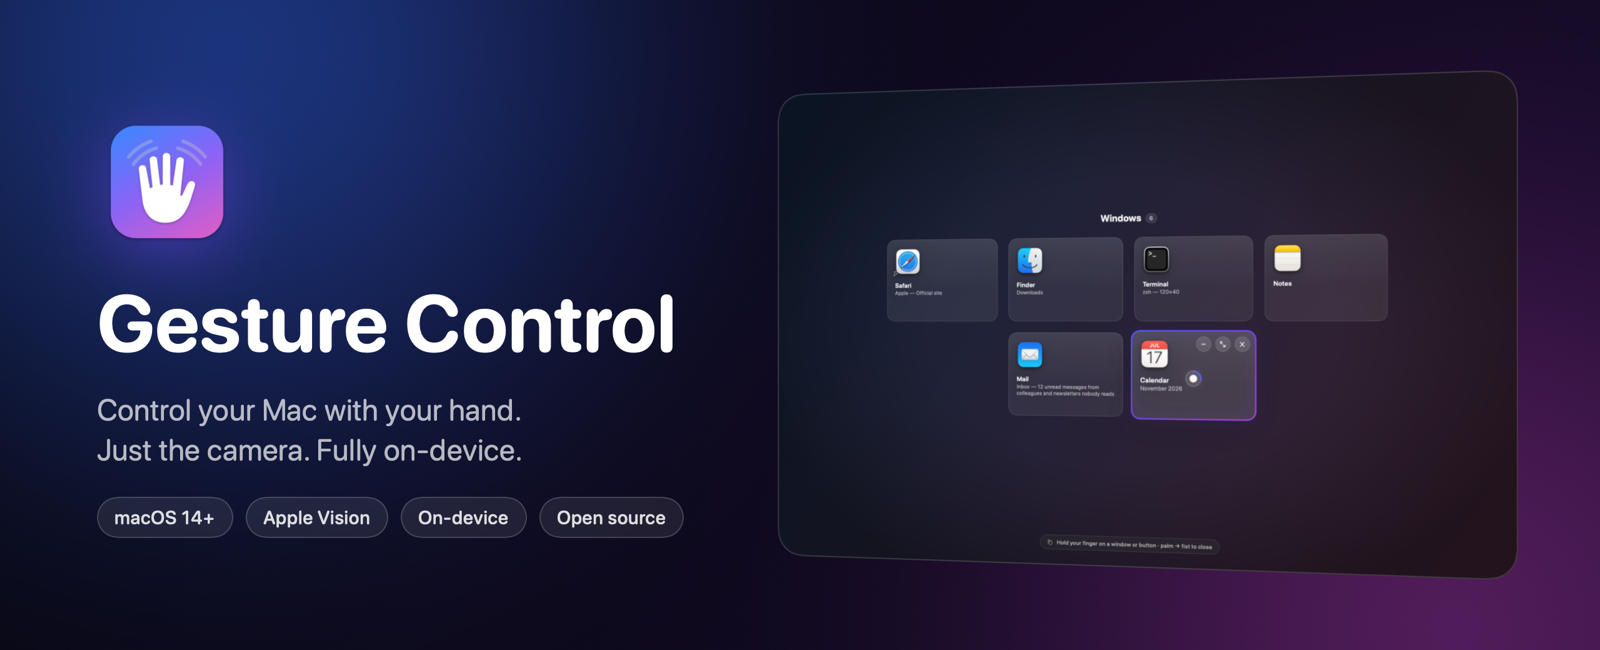
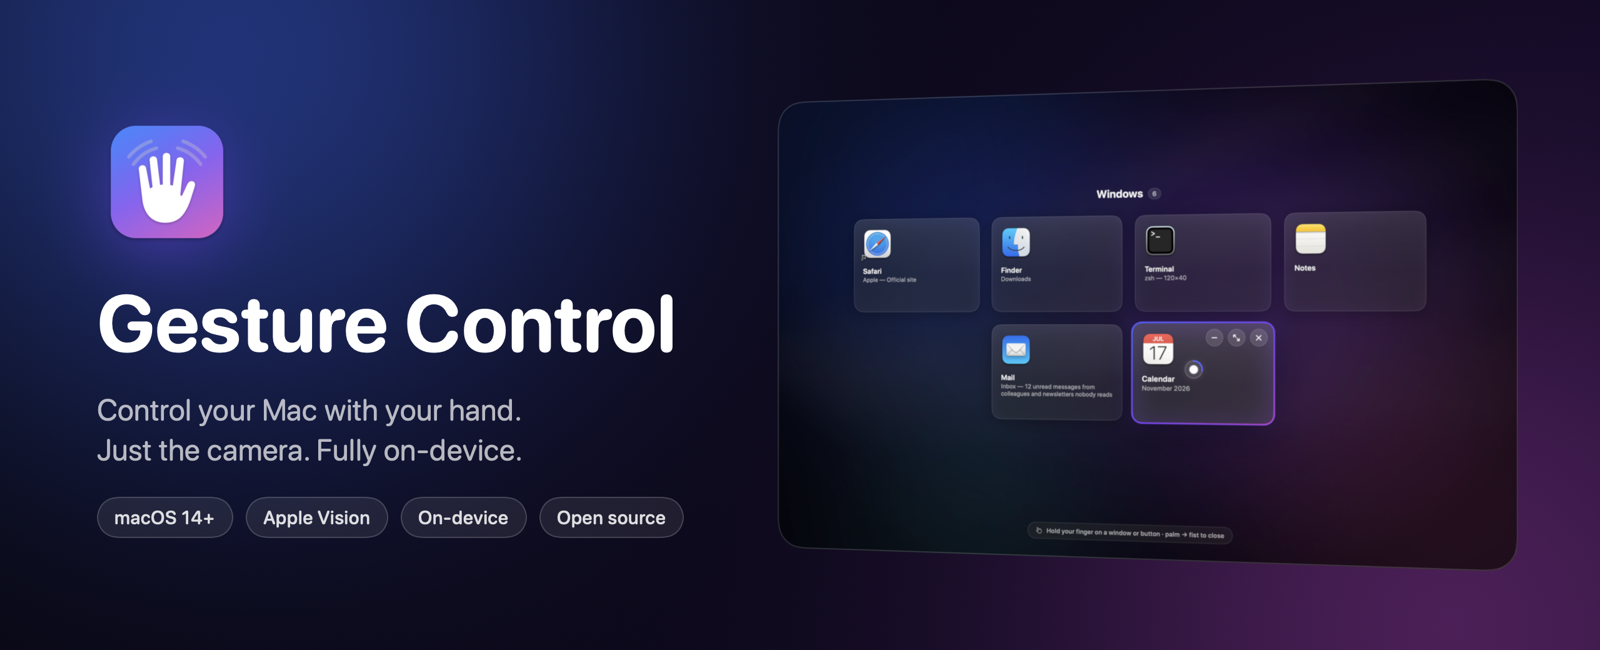
0.3.2: real screenshots in the README; picker overlay covers the menu bar and Dock
- README images are now real screenshots of the running UI (glass over a wallpaper),
  captured by scripts/shots in all three languages; no camera, no user windows
- Fix: the window picker panel ended up at .floating level (isFloatingPanel reset it);
  it now sits above the menu bar and Dock as intended
- Badge screenshot added to the READMEs

Changed region(s): [[0.5312, 0.2769, 0.9062, 0.6769], [0.625, 0.8, 0.9688, 0.8923], [0.5625, 0.1231, 0.6875, 0.1538]]

diff --git a/scripts/shots/main.swift b/scripts/shots/main.swift
@@ -1,0 +1,157 @@
+// Real screenshots of the live UI for the README, taken over a neutral wallpaper window so that
+// nothing from the user's desktop gets into the frame. The camera is never opened.
+//   shots <out dir>   → <out>/<lang>/{hud,hud-collapsed,guide,toast}.png and <out>/<lang>/frames/f###.jpg
+import AppKit
+import SwiftUI
+
+let out = URL(fileURLWithPath: CommandLine.arguments[1])
+let app = NSApplication.shared
+app.setActivationPolicy(.accessory)
+
+/// macOS-like abstract wallpaper.
+struct Wallpaper: View {
+    var body: some View {
+        ZStack {
+            LinearGradient(colors: [Color(red: 0.05, green: 0.06, blue: 0.16), Color(red: 0.13, green: 0.05, blue: 0.22)],
+                           startPoint: .topLeading, endPoint: .bottomTrailing)
+            Circle().fill(Color(red: 0.16, green: 0.38, blue: 1.0)).frame(width: 900).blur(radius: 180).offset(x: -520, y: -300).opacity(0.75)
+            Circle().fill(Color(red: 0.55, green: 0.25, blue: 0.95)).frame(width: 800).blur(radius: 170).offset(x: 260, y: -60).opacity(0.65)
+            Circle().fill(Color(red: 0.92, green: 0.30, blue: 0.62)).frame(width: 760).blur(radius: 170).offset(x: 600, y: 380).opacity(0.6)
+            Circle().fill(Color(red: 0.10, green: 0.75, blue: 0.85)).frame(width: 520).blur(radius: 150).offset(x: -380, y: 420).opacity(0.45)
+            // soft light ribbons
+            ForEach(0..<4) { i in
+                Capsule().fill(Color.white.opacity(0.06))
+                    .frame(width: 1600, height: 90 + CGFloat(i) * 30)
+                    .blur(radius: 30)
+                    .rotationEffect(.degrees(-24 + Double(i) * 7))
+                    .offset(x: CGFloat(i) * 80 - 120, y: CGFloat(i) * 120 - 220)
+            }
+        }
+        .ignoresSafeArea()
+    }
+}
+
+func capture(_ rect: CGRect, _ path: String, jpg: Bool = false) {
+    // rect in Cocoa global coordinates (bottom-left origin) → screencapture's top-left points
+    let top = (NSScreen.screens.first?.frame.maxY ?? 0) - rect.maxY
+    let r = "\(Int(rect.minX)),\(Int(top)),\(Int(rect.width)),\(Int(rect.height))"
+    let p = Process()
+    p.executableURL = URL(fileURLWithPath: "/usr/sbin/screencapture")
+    p.arguments = ["-x", "-o"] + (jpg ? ["-t", "jpg"] : []) + ["-R", r, path]
+    try? p.run()
+    p.waitUntilExit()
+}
+
+/// Runs steps one after another with a delay before each.
+final class Script {
+    private var steps: [(Double, () -> Void)] = []
+    func then(_ delay: Double, _ f: @escaping () -> Void) { steps.append((delay, f)) }
+    func run(done: @escaping () -> Void) {
+        guard !steps.isEmpty else { done(); return }
+        let (d, f) = steps.removeFirst()
+        DispatchQueue.main.asyncAfter(deadline: .now() + d) { f(); self.run(done: done) }
+    }
+}
+
+MainActor.assumeIsolated {
+    setenv("WINDOW_PICKER_FAKE", "6", 1)
+    guard let screen = NSScreen.main else { exit(1) }
+
+    let backdrop = NSWindow(contentRect: screen.frame, styleMask: [.borderless], backing: .buffered, defer: false)
+    backdrop.level = NSWindow.Level(rawValue: 22)         // above normal windows and the Dock, below the menu bar
+    func raisePanels() {                                   // our panels must sit above the backdrop
+        for w in NSApp.windows where w !== backdrop && w.level.rawValue < 23 { w.level = NSWindow.Level(rawValue: 23) }
+    }
+    backdrop.collectionBehavior = [.canJoinAllSpaces, .fullScreenAuxiliary, .stationary]
+    backdrop.contentView = NSHostingView(rootView: Wallpaper())
+    backdrop.setFrame(screen.frame, display: true)
+    backdrop.orderFrontRegardless()
+
+    let hud = HUD(session: nil)
+    let guide = GestureGuide()
+    let toast = Toast()
+    let picker = WindowPicker()
+    let hand = SelfTest.hand(at: CGPoint(x: 0.5, y: 0.47), fingers: SelfTest.open, s: 0.2, t: 0)
+
+    // picker animation path (normalized screen coords) and ring progress
+    var path: [(CGPoint, CGFloat)] = []
+    func move(_ a: CGPoint, _ b: CGPoint, _ n: Int) {
+        for i in 0..<n {
+            let t = CGFloat(i) / CGFloat(n - 1), e = t * t * (3 - 2 * t)
+            path.append((CGPoint(x: a.x + (b.x - a.x) * e, y: a.y + (b.y - a.y) * e), 0))
+        }
+    }
+    func hold(_ p: CGPoint, wait: Int, fill: Int, after: Int) {
+        for _ in 0..<wait { path.append((p, 0)) }
+        for i in 1...fill { path.append((p, CGFloat(i) / CGFloat(fill))) }
+        for _ in 0..<after { path.append((p, 1)) }
+    }
+    let start = CGPoint(x: 0.12, y: 0.80), safari = CGPoint(x: 0.24, y: 0.42), terminal = CGPoint(x: 0.587, y: 0.42)
+    let notes = CGPoint(x: 0.76, y: 0.43), calendar = CGPoint(x: 0.587, y: 0.61), mailClose = CGPoint(x: 0.473, y: 0.545)
+    move(start, safari, 14); move(safari, terminal, 14); move(terminal, notes, 8); move(notes, calendar, 12)
+    hold(calendar, wait: 6, fill: 18, after: 6)
+    move(calendar, mailClose, 14)
+    hold(mailClose, wait: 6, fill: 22, after: 8)
+
+    let s = Script()
+    for lang in Lang.allCases {
+        let dir = out.appendingPathComponent(lang.rawValue)
+        let frames = dir.appendingPathComponent("frames")
+        let label = { tr("point & hold", "наведите и задержите", "指向并停留") }
+        s.then(0.3) {
+            try? FileManager.default.createDirectory(at: frames, withIntermediateDirectories: true)
+            L10n.shared.lang = lang
+            hud.setCollapsed(false)
+            hud.show()
+            hud.update(hand: hand, mode: .picker, label: label())
+            raisePanels()
+            hud.demoCenter(on: screen)
+        }
+        s.then(0.6) { hud.demoCenter(on: screen) }
+        s.then(0.4) {
+            hud.update(hand: hand, mode: .picker, label: label())
+            if let f = hud.demoFrame { capture(f.insetBy(dx: -56, dy: -56), dir.appendingPathComponent("hud.png").path) }
+            hud.setCollapsed(true)
+        }
+        s.then(0.5) { hud.demoCenter(on: screen) }
+        s.then(0.3) {
+            hud.update(hand: hand, mode: .picker, label: label())
+            if let f = hud.demoFrame { capture(f.insetBy(dx: -40, dy: -40), dir.appendingPathComponent("hud-collapsed.png").path) }
+            hud.hide()
+            guide.show()
+            raisePanels()
+        }
+        s.then(1.0) {
+            if let f = guide.demoFrame { capture(f.insetBy(dx: -60, dy: -60), dir.appendingPathComponent("guide.png").path) }
+            guide.close()
+            toast.show(enabled: true)
+        }
+        s.then(0.55) {
+            if let f = toast.demoFrame {
+                var r = f.insetBy(dx: -70, dy: -34)
+                r.size.height = min(r.maxY, screen.visibleFrame.maxY) - r.minY   // stay below the menu bar / notch
+                capture(r, dir.appendingPathComponent("toast.png").path)
+            }
+            toast.demoHide()
+        }
+        s.then(2.0) { picker.demoOpen(count: 6) }   // after the badge has faded out
+        for (i, (p, ring)) in path.enumerated() {
+            s.then(i == 0 ? 0.6 : 0.05) {
+                picker.demoSet(pointer: p, ring: ring)
+            }
+            s.then(0.06) {
+                // full screen without the menu bar (it shows the user's apps and clock)
+                let r = CGRect(x: screen.frame.minX, y: screen.frame.minY, width: screen.frame.width,
+                               height: screen.visibleFrame.maxY - screen.frame.minY)
+                capture(r, frames.appendingPathComponent(String(format: "f%03d.jpg", i)).path, jpg: true)
+            }
+        }
+        s.then(0.1) { picker.close() }
+    }
+    s.run {
+        backdrop.orderOut(nil)
+        print("done")
+        exit(0)
+    }
+}
+app.run()

diff --git a/scripts/assets/main.swift b/scripts/assets/main.swift
@@ -1,15 +1,12 @@
 // Renders README images from the app's own drawing code (no camera, no real windows).
-//   render-assets <docs dir> <frames dir> <icon 512 png>
-//   For each language (en, ru, zh): docs/banner[-ru|-zh].png, hud…, hud-collapsed…, guide….png,
-//   and frames in <frames dir>/<lang>/ for demo[-ru|-zh].gif (assembled by scripts/render-assets.sh)
+//   render-assets <docs dir> <shots dir> <icon 512 png>
+//   Banner per language (docs/banner[-ru|-zh].png) built around a real screenshot from scripts/shots.
 import AppKit
 import SwiftUI
 
-setenv("WINDOW_PICKER_FAKE", "6", 1)   // demo windows instead of the user's real ones
 let root = URL(fileURLWithPath: CommandLine.arguments[1])
 let frames = URL(fileURLWithPath: CommandLine.arguments[2])
 let iconPath = CommandLine.arguments[3]
-try? FileManager.default.createDirectory(at: frames, withIntermediateDirectories: true)
 
 func snapshot<V: View>(_ view: V, to url: URL) {
     let host = NSHostingView(rootView: view)
@@ -75,56 +72,18 @@ struct Banner: View {
 }
 
 MainActor.assumeIsolated {
+  // banner per language, using a real screenshot frame from scripts/shots
   for lang in Lang.allCases {
     L10n.shared.lang = lang
     let sfx = lang == .en ? "" : "-\(lang.rawValue)"
-    let langFrames = frames.appendingPathComponent(lang.rawValue)
-    try? FileManager.default.createDirectory(at: langFrames, withIntermediateDirectories: true)
-
-    // camera HUD, expanded and collapsed
-    let hud = HUD(session: nil)
-    let hand = SelfTest.hand(at: CGPoint(x: 0.5, y: 0.47), fingers: SelfTest.open, s: 0.2, t: 0)
-    let label = tr("point & hold", "наведите и задержите", "指向并停留")
-    hud.renderDebugPNG(to: root.appendingPathComponent("hud\(sfx).png"), hand: hand, mode: .picker, label: label)
-    hud.renderDebugPNG(to: root.appendingPathComponent("hud-collapsed\(sfx).png"), hand: hand, mode: .picker, label: label,
-                       collapsed: true)
-
-    // gesture guide
-    GestureGuide.renderPNG(to: root.appendingPathComponent("guide\(sfx).png"))
-
-    // demo animation of the window picker
-    let picker = WindowPicker()
-    var path: [(CGPoint, CGFloat)] = []
-    func move(_ a: CGPoint, _ b: CGPoint, _ n: Int) {
-        for i in 0..<n {
-            let t = CGFloat(i) / CGFloat(n - 1), e = t * t * (3 - 2 * t)
-            path.append((CGPoint(x: a.x + (b.x - a.x) * e, y: a.y + (b.y - a.y) * e), 0))
-        }
-    }
-    func hold(_ p: CGPoint, wait: Int, fill: Int, after: Int) {
-        for _ in 0..<wait { path.append((p, 0)) }
-        for i in 1...fill { path.append((p, CGFloat(i) / CGFloat(fill))) }
-        for _ in 0..<after { path.append((p, 1)) }
-    }
-    let start = CGPoint(x: 0.12, y: 0.80), safari = CGPoint(x: 0.24, y: 0.42), terminal = CGPoint(x: 0.587, y: 0.42)
-    let notes = CGPoint(x: 0.76, y: 0.43), calendar = CGPoint(x: 0.587, y: 0.61), mailClose = CGPoint(x: 0.473, y: 0.545)
-    move(start, safari, 14); move(safari, terminal, 14); move(terminal, notes, 8); move(notes, calendar, 12)
-    hold(calendar, wait: 6, fill: 18, after: 6)
-    move(calendar, mailClose, 14)
-    hold(mailClose, wait: 6, fill: 22, after: 8)
-    for (i, (p, d)) in path.enumerated() {
-        picker.renderDebugPNG(to: langFrames.appendingPathComponent(String(format: "f%03d.png", i)),
-                              pointer: p, size: CGSize(width: 1728, height: 1117), dwellProgress: d)
-    }
-
-    // banner: icon + title + a picker frame
-    let shot = NSImage(contentsOf: langFrames.appendingPathComponent(String(format: "f%03d.png", 58)))!
+    let shotURL = frames.appendingPathComponent("\(lang.rawValue)/frames/f058.jpg")
+    guard let shot = NSImage(contentsOf: shotURL) else { print("missing \(shotURL.path)"); continue }
     let renderer = ImageRenderer(content: Banner(icon: NSImage(contentsOfFile: iconPath)!, shot: shot))
     renderer.scale = 2
     if let cg = renderer.cgImage {
         try? NSBitmapImageRep(cgImage: cg).representation(using: .png, properties: [:])?
             .write(to: root.appendingPathComponent("banner\(sfx).png"))
     }
-    print("\(lang.rawValue): frames \(path.count)")
+    print("banner \(lang.rawValue)")
   }
 }

diff --git a/Sources/WindowPicker.swift b/Sources/WindowPicker.swift
@@ -85,12 +85,45 @@ private enum PickerTarget: Equatable {
 
     init() {}
 
+    // MARK: Demo capture (README screenshots): fake windows, pointer and ring set directly; nothing fires.
+    private var demoButtons = false
+
+    @discardableResult func demoOpen(count: Int) -> Int {
+        guard let screen = WindowPicker.targetScreen() else { return 0 }
+        windows = WindowPicker.fakeWindows(count: count)
+        demoButtons = true
+        screenSize = screen.frame.size
+        screenScale = screen.backingScaleFactor
+        resetDwell()
+        let panel = ensurePanel()
+        panel.setFrame(screen.frame, display: false)
+        rebuildCanvas()
+        canvas.setPointer(nil)
+        panel.alphaValue = 1
+        panel.orderFrontRegardless()
+        isOpen = true
+        return windows.count
+    }
+
+    func demoSet(pointer p: CGPoint, ring: CGFloat) {
+        guard isOpen else { return }
+        CATransaction.begin()
+        CATransaction.setDisableActions(true)
+        let lp = canvas.toLayer(p)
+        canvas.setPointer(lp)
+        let t = canvas.resolve(lp, current: target)
+        if t != target { target = t; canvas.setTarget(t, animated: false) }
+        canvas.setPinch(ring)
+        CATransaction.commit()
+    }
+
     /// Enumerate windows and show the overlay on the screen that contains the mouse cursor (else main screen).
     /// Returns number of windows; if 0, does NOT open.
     @discardableResult func open() -> Int {
         let list = WindowPicker.listWindows()
         guard !list.isEmpty, let screen = WindowPicker.targetScreen() else { return 0 }
         windows = list
+        demoButtons = false
         screenSize = screen.frame.size
         screenScale = screen.backingScaleFactor
         resetDwell()
@@ -290,7 +323,7 @@ private enum PickerTarget: Equatable {
         CATransaction.begin()
         CATransaction.setDisableActions(true)
         canvas.root.frame = CGRect(origin: .zero, size: screenSize)
-        canvas.build(windows: windows, buttons: windows.map { $0.axWindow != nil }, size: screenSize, scale: screenScale)
+        canvas.build(windows: windows, buttons: windows.map { demoButtons || $0.axWindow != nil }, size: screenSize, scale: screenScale)
         canvas.setPinch(0)
         CATransaction.commit()
     }
@@ -366,6 +399,7 @@ private enum PickerTarget: Equatable {
         p.collectionBehavior = [.canJoinAllSpaces, .fullScreenAuxiliary, .stationary]
         p.hidesOnDeactivate = false
         p.isFloatingPanel = true
+        p.level = .screenSaver        // set after isFloatingPanel, which resets the level to .floating
         p.becomesKeyOnlyIfNeeded = true
         p.isReleasedWhenClosed = false
         p.animationBehavior = .none

diff --git a/Sources/HUD.swift b/Sources/HUD.swift
@@ -10,6 +10,11 @@ import QuartzCore
     /// Help button pressed.
     var onHelp: (() -> Void)?
     var onQuit: (() -> Void)?                 // power button: quit the app
+    var demoFrame: CGRect? { panel?.frame }   // for README screenshots
+    func demoCenter(on screen: NSScreen) {       // for README screenshots
+        guard let p = panel else { return }
+        p.setFrameOrigin(CGPoint(x: screen.frame.midX - p.frame.width / 2, y: screen.frame.midY - p.frame.height / 2))
+    }
     /// Camera hidden/shown via the panel's eye button (not called for `setCollapsed`).
     var onCollapsedChanged: ((Bool) -> Void)?
     private(set) var isCollapsed = false

diff --git a/Sources/Toast.swift b/Sources/Toast.swift
@@ -35,6 +35,8 @@ private struct ToastView: View {
 
 @MainActor final class Toast {
     private var panel: NSPanel?
+    var demoFrame: CGRect? { panel?.frame }    // for README screenshots
+    func demoHide() { generation += 1; panel?.orderOut(nil) }
     private var generation = 0
 
     func show(enabled: Bool) {

diff --git a/Sources/GestureGuide.swift b/Sources/GestureGuide.swift
@@ -201,6 +201,7 @@ struct GestureGuideView: View {
 
 @MainActor final class GestureGuide {
     private var window: NSWindow?
+    var demoFrame: CGRect? { window?.frame }   // for README screenshots
 
     func show() {
         let w = window ?? makeWindow()

diff --git a/README.ru.md b/README.ru.md
@@ -67,6 +67,8 @@
   </tr>
 </table>
 
+<p align="center"><img src="docs/toast-ru.png" width="360" alt="toast"><br><sub><b>Плашка вкл/выкл</b> — появляется сверху, когда показываете 👍.</sub></p>
+
 ## 🚀 Установка
 
 1. **Скачайте** [`GestureControl-macOS.zip`](https://github.com/RazinAleksandr/gesture-control/releases/latest/download/GestureControl-macOS.zip), распакуйте и перетащите **Gesture Control** в «Программы».

diff --git a/README.zh-CN.md b/README.zh-CN.md
@@ -67,6 +67,8 @@
   </tr>
 </table>
 
+<p align="center"><img src="docs/toast-zh.png" width="360" alt="toast"><br><sub><b>开关提示</b>：竖起 👍 时出现在屏幕顶部。</sub></p>
+
 ## 🚀 安装
 
 1. **下载** [`GestureControl-macOS.zip`](https://github.com/RazinAleksandr/gesture-control/releases/latest/download/GestureControl-macOS.zip)，解压后把 **Gesture Control** 拖进「应用程序」文件夹。

diff --git a/README.md b/README.md
@@ -68,6 +68,8 @@
   </tr>
 </table>
 
+<p align="center"><img src="docs/toast.png" width="360" alt="toast"><br><sub><b>On/off badge</b> — appears at the top when you show 👍.</sub></p>
+
 ## 🚀 Install
 
 1. **Download** [`GestureControl-macOS.zip`](https://github.com/RazinAleksandr/gesture-control/releases/latest/download/GestureControl-macOS.zip), unzip it and drag **Gesture Control** into *Applications*.
